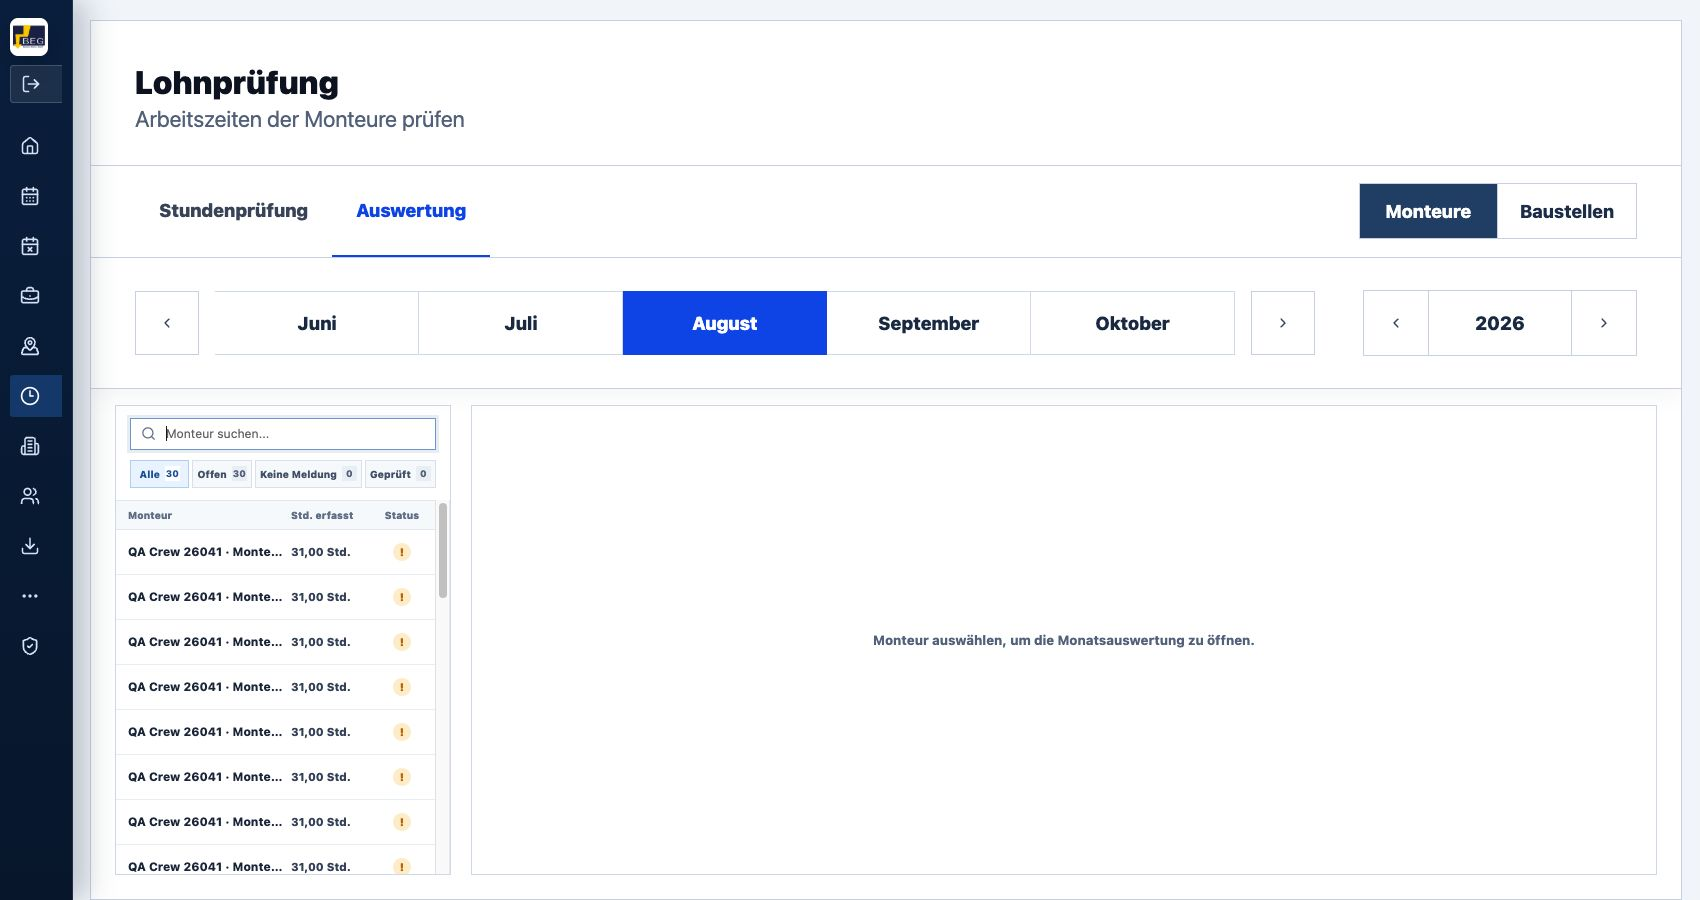
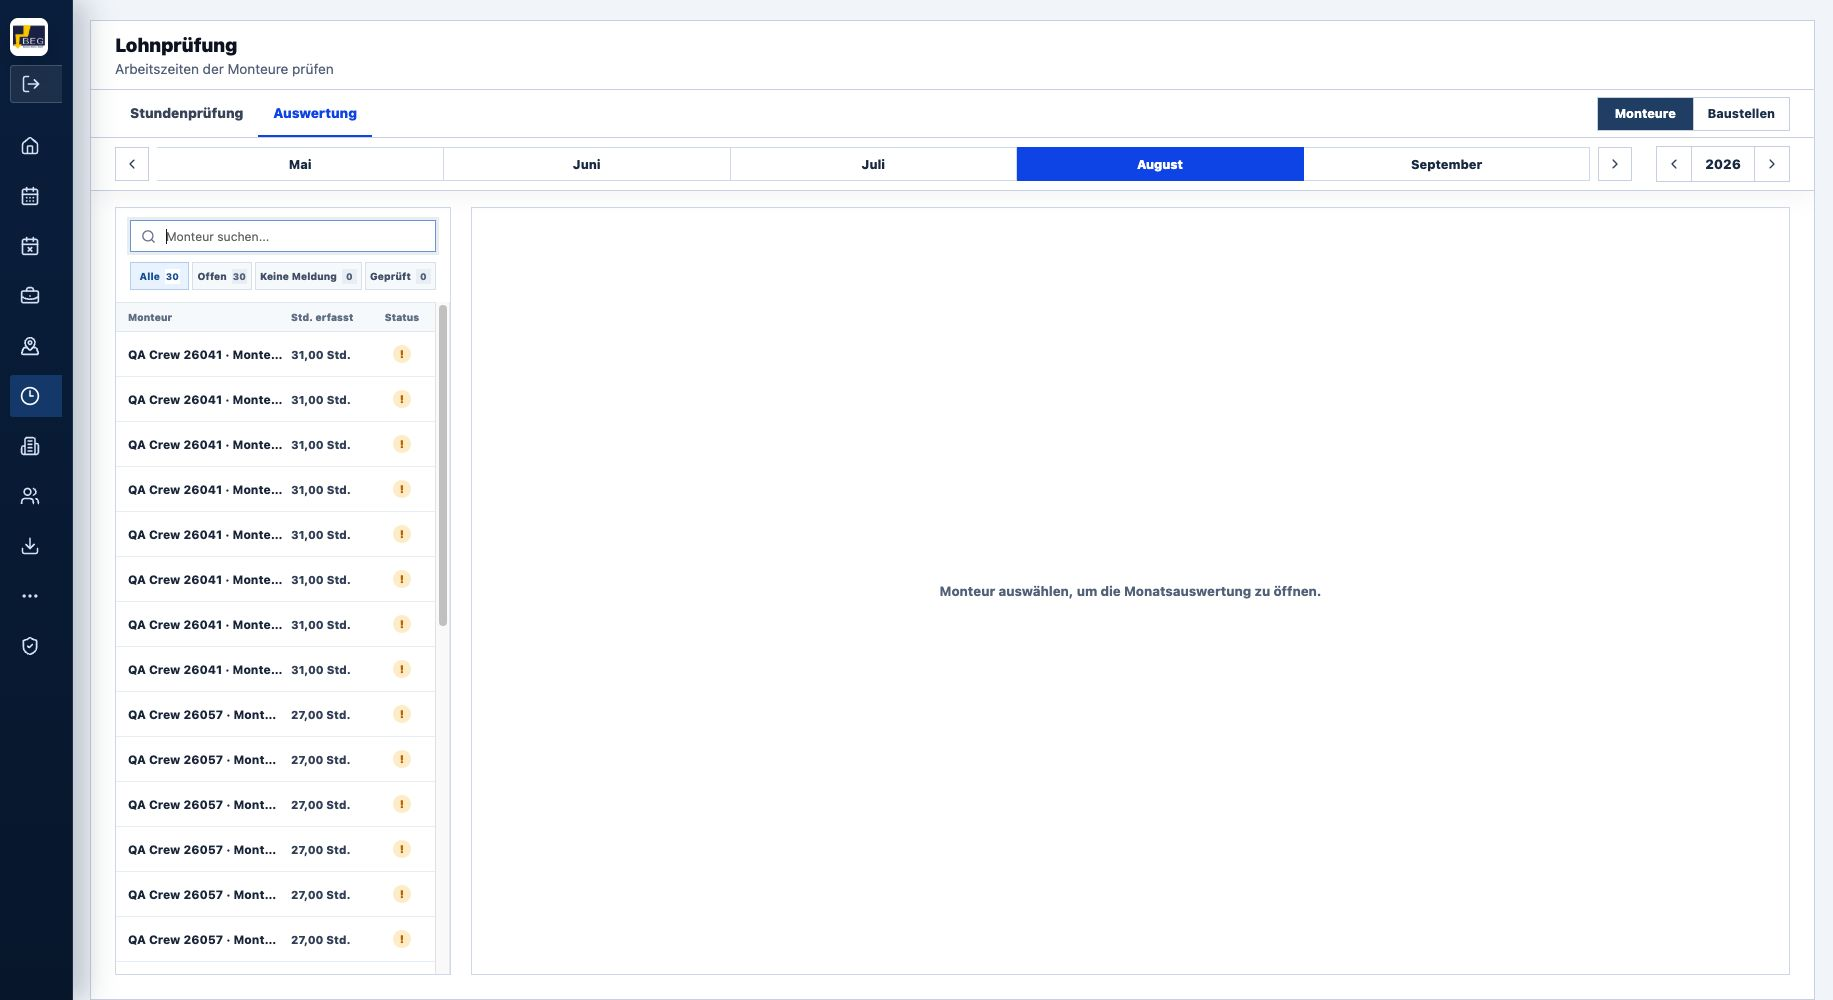
Lohnprüfung: Monatsheader kompakter skalieren

diff --git a/frontend/src/styles.css b/frontend/src/styles.css
@@ -17446,7 +17446,7 @@ body.mobile-modal-scroll-locked {
   display: grid;
   grid-template-columns: minmax(0, 1fr) auto;
   align-items: center;
-  gap: clamp(24px, 3vw, 48px);
+  gap: 24px;
 }
 
 .time-evaluation-year-navigation {
@@ -17459,20 +17459,20 @@ body.mobile-modal-scroll-locked {
 
 .time-evaluation-year-navigation > span {
   display: inline-grid;
-  min-width: clamp(84px, 8.5vw, 150px);
-  min-height: clamp(42px, 4vw, 64px);
+  min-width: 64px;
+  min-height: 34px;
   place-items: center;
   border-right: 1px solid var(--time-border);
   border-left: 1px solid var(--time-border);
   color: #203652;
-  font-size: clamp(0.9rem, 1.15vw, 1.18rem);
+  font-size: 0.82rem;
   font-weight: 850;
   text-align: center;
 }
 
 .time-evaluation-year-navigation .time-week-scroll-button {
-  width: clamp(42px, 4vw, 64px);
-  height: clamp(42px, 4vw, 64px);
+  width: 34px;
+  height: 34px;
   border: 0;
   background: #ffffff;
 }
@@ -17485,9 +17485,9 @@ body.mobile-modal-scroll-locked {
 
 .time-evaluation-month-strip-shell {
   display: grid;
-  grid-template-columns: clamp(42px, 4vw, 64px) minmax(0, 1fr) clamp(42px, 4vw, 64px);
+  grid-template-columns: 34px minmax(0, 1fr) 34px;
   align-items: center;
-  gap: clamp(8px, 1vw, 16px);
+  gap: 8px;
 }
 
 .time-evaluation-month-strip {
@@ -17508,14 +17508,14 @@ body.mobile-modal-scroll-locked {
 .time-evaluation-month-strip button {
   flex: 0 0 20%;
   min-width: 84px;
-  min-height: clamp(42px, 4vw, 64px);
+  min-height: 34px;
   border: 1px solid #d7e1ee;
   border-left-width: 0;
   border-radius: 0;
   background: #ffffff;
   color: #203652;
   font: inherit;
-  font-size: clamp(0.86rem, 1.15vw, 1.15rem);
+  font-size: 0.78rem;
   font-weight: 850;
   scroll-snap-align: start;
   scroll-snap-stop: always;
@@ -17548,7 +17548,7 @@ body.mobile-modal-scroll-locked {
 .time-evaluation-subtabs {
   display: grid;
   box-sizing: border-box;
-  grid-template-columns: repeat(2, minmax(132px, 1fr));
+  grid-template-columns: repeat(2, minmax(96px, 1fr));
   flex: 0 0 auto;
   min-height: 0;
   align-items: center;
@@ -17563,14 +17563,14 @@ body.mobile-modal-scroll-locked {
 }
 
 .time-evaluation-subtabs button {
-  min-height: clamp(42px, 3.5vw, 56px);
+  min-height: 34px;
   border: 1px solid var(--time-border);
   border-radius: 0;
   background: #ffffff;
   color: #243b5a;
-  font-size: clamp(0.88rem, 1.15vw, 1.14rem);
+  font-size: 0.78rem;
   font-weight: 800;
-  padding: 10px 22px;
+  padding: 6px 14px;
 }
 
 .time-evaluation-subtabs button + button {
@@ -19222,7 +19222,7 @@ body.mobile-modal-scroll-locked {
 .time-entries-page.is-figma-times-workspace .page-header h1 {
   margin: 0 0 3px;
   color: var(--time-text);
-  font-size: clamp(1.45rem, 1.9vw, 2rem);
+  font-size: 1.18rem;
   line-height: 1.2;
   font-weight: 900;
   letter-spacing: 0;
@@ -19239,7 +19239,7 @@ body.mobile-modal-scroll-locked {
   max-width: 680px;
   margin: 0;
   color: var(--time-muted);
-  font-size: clamp(0.95rem, 1.35vw, 1.4rem);
+  font-size: 0.86rem;
   line-height: 1.35;
 }
 
@@ -19247,13 +19247,13 @@ body.mobile-modal-scroll-locked {
   display: flex;
   box-sizing: border-box;
   width: 100%;
-  min-height: clamp(64px, 5.5vw, 92px);
+  min-height: 48px;
   align-items: center;
   justify-content: space-between;
-  gap: clamp(20px, 4vw, 64px);
+  gap: 24px;
   border-bottom: 1px solid #d1d9e6;
   background: #ffffff;
-  padding: 0 clamp(20px, 3vw, 44px);
+  padding: 0 24px;
 }
 
 .time-entries-page.is-figma-times-workspace .time-main-subtabs {
@@ -19287,9 +19287,9 @@ body.mobile-modal-scroll-locked {
   border-radius: 0;
   border-bottom: 2px solid transparent;
   color: #475569;
-  font-size: clamp(0.92rem, 1.15vw, 1.14rem);
+  font-size: 0.84rem;
   font-weight: 850;
-  padding: 0 clamp(14px, 1.5vw, 24px);
+  padding: 0 15px;
 }
 
 .time-entries-page.is-figma-times-workspace .time-main-subtabs button:hover,
@@ -19671,18 +19671,18 @@ body.mobile-modal-scroll-locked {
   align-items: center;
   justify-content: space-between;
   gap: 20px;
-  padding: clamp(26px, 2.6vw, 42px) clamp(24px, 3vw, 44px) clamp(22px, 2vw, 30px);
+  padding: 13px 24px 11px;
 }
 
 .time-entries-page.is-figma-times-workspace .time-evaluation-month-nav {
   margin-top: 0;
-  padding: clamp(22px, 2.2vw, 32px) clamp(20px, 3vw, 44px);
+  padding: 8px 24px;
 }
 
 .time-entries-page.is-figma-times-workspace .time-evaluation-month-strip-shell > .time-week-scroll-button {
-  width: clamp(42px, 4vw, 64px);
-  height: clamp(42px, 4vw, 64px);
-  min-height: clamp(42px, 4vw, 64px);
+  width: 34px;
+  height: 34px;
+  min-height: 34px;
   background: #ffffff;
 }
 
@@ -20531,6 +20531,7 @@ body.mobile-modal-scroll-locked {
 
   .time-evaluation-period-controls {
     grid-template-columns: minmax(0, 1fr);
+    gap: 8px;
   }
 
   .time-evaluation-year-navigation {
@@ -20543,7 +20544,7 @@ body.mobile-modal-scroll-locked {
   }
 
   .time-evaluation-subtabs {
-    grid-template-columns: repeat(2, minmax(110px, 1fr));
+    grid-template-columns: repeat(2, minmax(94px, 1fr));
   }
 
   .time-entries-page.is-figma-times-workspace .page-header {
@@ -20601,7 +20602,7 @@ body.mobile-modal-scroll-locked {
 
   .time-entries-page.is-figma-times-workspace .time-main-subtabs {
     flex: 1 1 100%;
-    min-height: 54px;
+    min-height: 42px;
   }
 
   .time-evaluation-subtabs {
